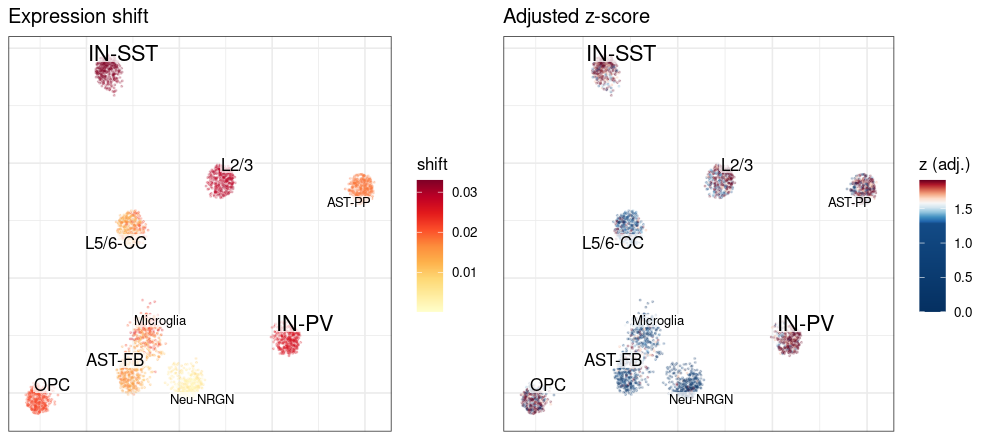
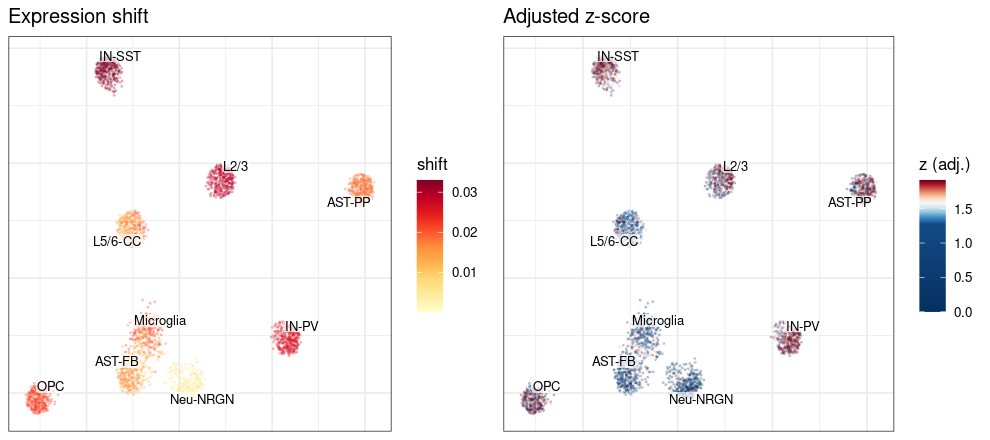
Walkthrough re-rendered with the BH-adjusted cluster-free panels

diff --git a/vignettes/walkthrough_short.md b/vignettes/walkthrough_short.md
@@ -351,7 +351,7 @@ one-sided):
 
 ``` r
 cao$estimateClusterFreeExpressionShifts(n.top.genes = 500, n.permutations = 99)
-cao$plotClusterFreeExpressionShifts()
+cao$plotClusterFreeExpressionShifts(font.size = 3)
 ```
 
 ![](walkthrough_short_files/figure-gfm/cluster-free-shifts-1.png)<!-- -->
